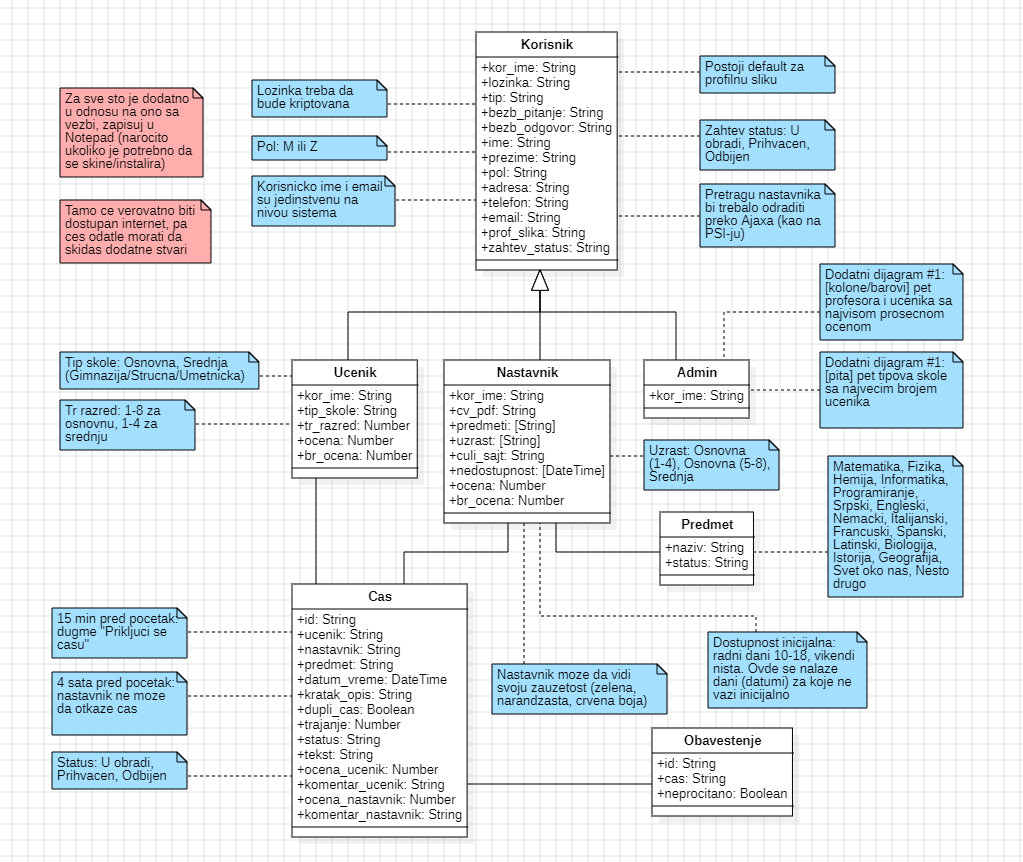
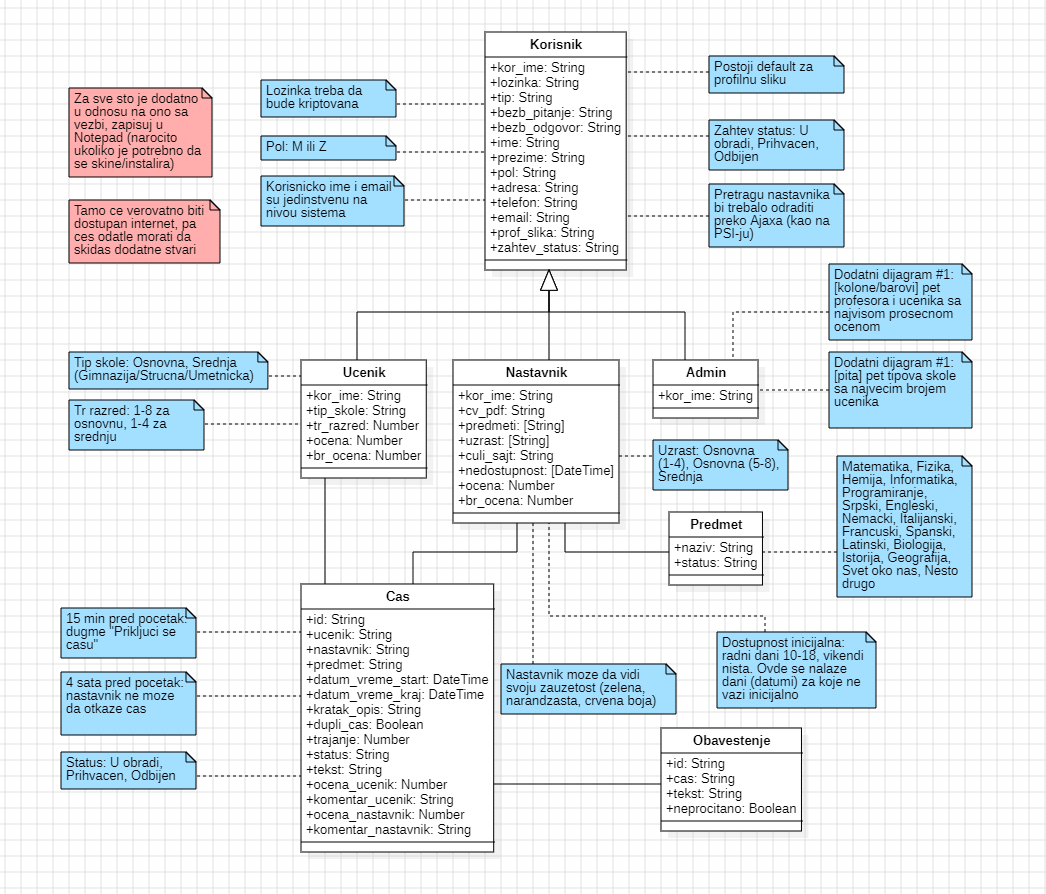
Added endpoints and service calls for notification part of student implemntation. Changed the structure of notification.

Changed region(s): [[0.0606, 0.0302, 0.9394, 0.9652], [0.0303, 0.6636, 0.2121, 0.935], [0.0606, 0.0905, 0.2121, 0.3318]]

diff --git a/backend/src/controller.ts b/backend/src/controller.ts
@@ -532,6 +532,15 @@ export class ZController {
             .catch(err => console.log(err));
     };
 
+    dohvCasoveUcenika = (req: express.Request, res: express.Response) => {
+        const ucenik = req.body.ucenik;
+
+        Cas
+            .find({ucenik: ucenik})
+            .then(data => res.json(data))
+            .catch(err => console.log(err));
+    };
+
     /*
         1)	zakazivanje casa vikendom
         2)	pocetak casa pre 10:00 ili kraj casa posle 18:00
@@ -673,5 +682,105 @@ export class ZController {
                     .catch(err2 => console.log(err2));
             })
             .catch(err1 => console.log(err1));
+    };
+
+    potvrdiCas = (req: express.Request, res: express.Response) => {
+        const _id = req.body._id;
+
+        Cas
+            .findByIdAndUpdate(_id, {status: "Prihvacen"})
+            .then(data => res.json({msg: "OK"}))
+            .catch(err => console.log(err));
+    };
+
+    odbijCas = (req: express.Request, res: express.Response) => {
+        const _id = req.body._id;
+
+        Cas
+            .findByIdAndUpdate(_id, {status: "Odbijen"})
+            .then(data => res.json({msg: "OK"}))
+            .catch(err => console.log(err));
+    };
+
+    unesiKomentarIOcenuUcenik = (req: express.Request, res: express.Response) => {
+        const _id = req.body._id;
+        const komentar_ucenik = req.body.komentar_ucenik;
+        const ocena_ucenik = req.body.ocena_ucenik;
+
+        Cas
+            .findByIdAndUpdate(_id, {komentar_ucenik: komentar_ucenik, ocena_ucenik: ocena_ucenik})
+            .then(data => {
+                Nastavnik
+                    .findOne({kor_ime: data!.nastavnik})
+                    .then(tData => {
+                        const ocena = tData!.ocena!;
+                        const br_ocena = tData!.br_ocena!;
+                        const nOcena = (ocena * br_ocena + ocena_ucenik) / (br_ocena + 1);
+                        Nastavnik
+                            .findOneAndUpdate({kor_ime: data!.nastavnik}, {ocena: nOcena, br_ocena: br_ocena + 1})
+                            .then(fData => res.json({msg: "OK"}))
+                            .catch(fErr => console.log(fErr));
+                    })
+                    .catch(tErr => console.log(tErr));
+            })
+            .catch(err => console.log(err));
+    };
+
+    unesiKomentarIOcenuNastavnik = (req: express.Request, res: express.Response) => {
+        const _id = req.body._id;
+        const komentar_nastavnik = req.body.komentar_nastavnik;
+        const ocena_nastavnik = req.body.ocena_nastavnik;
+
+        Cas
+            .findByIdAndUpdate(_id, {komentar_nastavnik: komentar_nastavnik, ocena_nastavnik: ocena_nastavnik})
+            .then(data => {
+                Ucenik
+                    .findOne({kor_ime: data!.ucenik})
+                    .then(tData => {
+                        const ocena = tData!.ocena!;
+                        const br_ocena = tData!.br_ocena!;
+                        const nOcena = (ocena * br_ocena + ocena_nastavnik) / (br_ocena + 1);
+                        Ucenik
+                            .findOneAndUpdate({kor_ime: data!.ucenik}, {ocena: nOcena, br_ocena: br_ocena + 1})
+                            .then(fData => res.json({msg: "OK"}))
+                            .catch(fErr => console.log(fErr));
+                    })
+                    .catch(tErr => console.log(tErr));
+            })
+            .catch(err => console.log(err));
+    };
+
+    dohvObavestenjeZaCas = (req: express.Request, res: express.Response) => {
+        const cas = req.body.cas;
+
+        Obavestenje
+            .findOne({cas: cas})
+            .then(data => res.json(data))
+            .catch(err => console.log(err));
+    };
+
+    kreirajObavestenje = (req: express.Request, res: express.Response) => {
+        const cas = req.body.cas;
+        const tekst = req.body.tekst;
+
+        const nObavestenje = new Obavestenje({
+            cas: cas,
+            tekst: tekst,
+            neprocitano: true
+        });
+
+        nObavestenje
+            .save()
+            .then(data => res.json({msg: "OK"}))
+            .catch(err => console.log(err));
+    };
+
+    procitajObavestenje = (req: express.Request, res: express.Response) => {
+        const _id = req.body._id;
+
+        Obavestenje
+            .findByIdAndUpdate(_id, {neprocitano: false})
+            .then(data => res.json({msg: "OK"}))
+            .catch(err => console.log(err));
     };
 }

diff --git a/frontend/src/app/services/z.service.ts b/frontend/src/app/services/z.service.ts
@@ -259,6 +259,13 @@ export class ZService {
     return this.http.post<Cas[]>(this.uri + "/dohvCasoveNastavnika", data);
   }
 
+  dohvCasoveUcenika(ucenik: string) {
+    const data = {
+      ucenik: ucenik
+    };
+    return this.http.post<Cas[]>(this.uri + "/dohvCasoveUcenika", data);
+  }
+
   zakaziCas(ucenik: string, nastavnik: string, predmet: string, datum_vreme_start: string, kratak_opis: string, dupli_cas: boolean, trajanje: number) {
     const data = {
       ucenik: ucenik,
@@ -282,6 +289,60 @@ export class ZService {
       kratak_opis: kratak_opis
     };
     return this.http.post<Poruka>(this.uri + "/zakaziCasExt", data);
+  }
+
+  potvrdiCas(_id: string) {
+    const data = {
+      _id: _id
+    };
+    return this.http.post<Poruka>(this.uri + "/potvrdiCas", data);
+  }
+
+  odbijCas(_id: string) {
+    const data = {
+      _id: _id
+    };
+    return this.http.post<Poruka>(this.uri + "/odbijCas", data);
+  }
+
+  unesiKomentarIOcenuUcenik(_id: string, komentar_ucenik: string, ocena_ucenik: number) {
+    const data = {
+      _id: _id,
+      komentar_ucenik: komentar_ucenik,
+      ocena_ucenik: ocena_ucenik
+    };
+    return this.http.post<Poruka>(this.uri + "/unesiKomentarIOcenuUcenik", data);
+  }
+
+  unesiKomentarIOcenuNastavnik(_id: string, komentar_nastavnik: string, ocena_nastavnik: number) {
+    const data = {
+      _id: _id,
+      komentar_nastavnik: komentar_nastavnik,
+      ocena_nastavnik: ocena_nastavnik
+    };
+    return this.http.post<Poruka>(this.uri + "/unesiKomentarIOcenuNastavnik", data);
+  }
+
+  dohvObavestenjeZaCas(cas: string) {
+    const data = {
+      cas: cas
+    };
+    return this.http.post<Obavestenje>(this.uri + "/dohvObavestenjeZaCas", data);
+  }
+
+  kreirajObavestenje(cas: string, tekst: string) {
+    const data = {
+      cas: cas,
+      tekst: tekst
+    };
+    return this.http.post<Poruka>(this.uri + "/kreirajObavestenje", data);
+  }
+
+  procitajObavestenje(_id: string) {
+    const data = {
+      _id: _id
+    };
+    return this.http.post<Poruka>(this.uri + "/procitajObavestenje", data);
   }
 
 }

diff --git a/backend/src/router.ts b/backend/src/router.ts
@@ -128,11 +128,43 @@ ZRouter
     .post((req, res) => new ZController().dohvCasoveNastavnika(req, res));
 
 ZRouter
+    .route("/dohvCasoveUcenika")
+    .post((req, res) => new ZController().dohvCasoveUcenika(req, res));
+
+ZRouter
     .route("/zakaziCas")
     .post((req, res) => new ZController().zakaziCas(req, res));
 
 ZRouter
     .route("/zakaziCasExt")
     .post((req, res) => new ZController().zakaziCasExt(req, res));
+
+ZRouter
+    .route("/potvrdiCas")
+    .post((req, res) => new ZController().potvrdiCas(req, res));
+
+ZRouter
+    .route("/odbijCas")
+    .post((req, res) => new ZController().odbijCas(req, res));
+    
+ZRouter
+    .route("/unesiKomentarIOcenuUcenik")
+    .post((req, res) => new ZController().unesiKomentarIOcenuUcenik(req, res));
+
+ZRouter
+    .route("/unesiKomentarIOcenuNastavnik")
+    .post((req, res) => new ZController().unesiKomentarIOcenuNastavnik(req, res));
+
+ZRouter
+    .route("/dohvObavestenjeZaCas")
+    .post((req, res) => new ZController().dohvObavestenjeZaCas(req, res));
+
+ZRouter
+    .route("/kreirajObavestenje")
+    .post((req, res) => new ZController().kreirajObavestenje(req, res));
+
+ZRouter
+    .route("/procitajObavestenje")
+    .post((req, res) => new ZController().procitajObavestenje(req, res));
 
 export default ZRouter;

diff --git a/frontend/src/app/app.module.ts b/frontend/src/app/app.module.ts
@@ -27,6 +27,7 @@ import { UcenikCasoviComponent } from './components/ucenik-casovi/ucenik-casovi.
 import { UcenikKomentarComponent } from './components/ucenik-komentar/ucenik-komentar.component';
 import { UcenikObavestenjaComponent } from './components/ucenik-obavestenja/ucenik-obavestenja.component';
 import { FullCalendarModule } from '@fullcalendar/angular';
+import { UcenikKomentarDodatnoComponent } from './components/ucenik-komentar-dodatno/ucenik-komentar-dodatno.component';
 
 @NgModule({
   declarations: [
@@ -51,7 +52,8 @@ import { FullCalendarModule } from '@fullcalendar/angular';
     UcenikDrugaComponent,
     UcenikCasoviComponent,
     UcenikKomentarComponent,
-    UcenikObavestenjaComponent
+    UcenikObavestenjaComponent,
+    UcenikKomentarDodatnoComponent
   ],
   imports: [
     BrowserModule,

diff --git a/frontend/src/app/components/ucenik-komentar-dodatno/ucenik-komentar-dodatno.component.spec.ts b/frontend/src/app/components/ucenik-komentar-dodatno/ucenik-komentar-dodatno.component.spec.ts
@@ -1,0 +1,21 @@
+import { ComponentFixture, TestBed } from '@angular/core/testing';
+
+import { UcenikKomentarDodatnoComponent } from './ucenik-komentar-dodatno.component';
+
+describe('UcenikKomentarDodatnoComponent', () => {
+  let component: UcenikKomentarDodatnoComponent;
+  let fixture: ComponentFixture<UcenikKomentarDodatnoComponent>;
+
+  beforeEach(() => {
+    TestBed.configureTestingModule({
+      declarations: [UcenikKomentarDodatnoComponent]
+    });
+    fixture = TestBed.createComponent(UcenikKomentarDodatnoComponent);
+    component = fixture.componentInstance;
+    fixture.detectChanges();
+  });
+
+  it('should create', () => {
+    expect(component).toBeTruthy();
+  });
+});

diff --git a/frontend/src/app/components/ucenik-komentar-dodatno/ucenik-komentar-dodatno.component.ts b/frontend/src/app/components/ucenik-komentar-dodatno/ucenik-komentar-dodatno.component.ts
@@ -1,0 +1,10 @@
+import { Component } from '@angular/core';
+
+@Component({
+  selector: 'app-ucenik-komentar-dodatno',
+  templateUrl: './ucenik-komentar-dodatno.component.html',
+  styleUrls: ['./ucenik-komentar-dodatno.component.css']
+})
+export class UcenikKomentarDodatnoComponent {
+
+}

diff --git a/backend/src/models/obavestenje.ts b/backend/src/models/obavestenje.ts
@@ -4,6 +4,7 @@ const Schema = mongoose.Schema;
 
 const Obavestenje = new Schema({
     cas: {type: String},
+    tekst: {type: String},
     neprocitano: {type: Boolean}
 });
 

diff --git a/frontend/src/app/models/obavestenje.ts b/frontend/src/app/models/obavestenje.ts
@@ -1,5 +1,6 @@
 export class Obavestenje {
   _id: string = "";
   cas: string = "";
+  tekst: string = "";
   neprocitano: boolean = false;
 }

diff --git a/frontend/src/app/components/ucenik-komentar-dodatno/ucenik-komentar-dodatno.component.html b/frontend/src/app/components/ucenik-komentar-dodatno/ucenik-komentar-dodatno.component.html
@@ -1,0 +1,1 @@
+<p>ucenik-komentar-dodatno works!</p>
